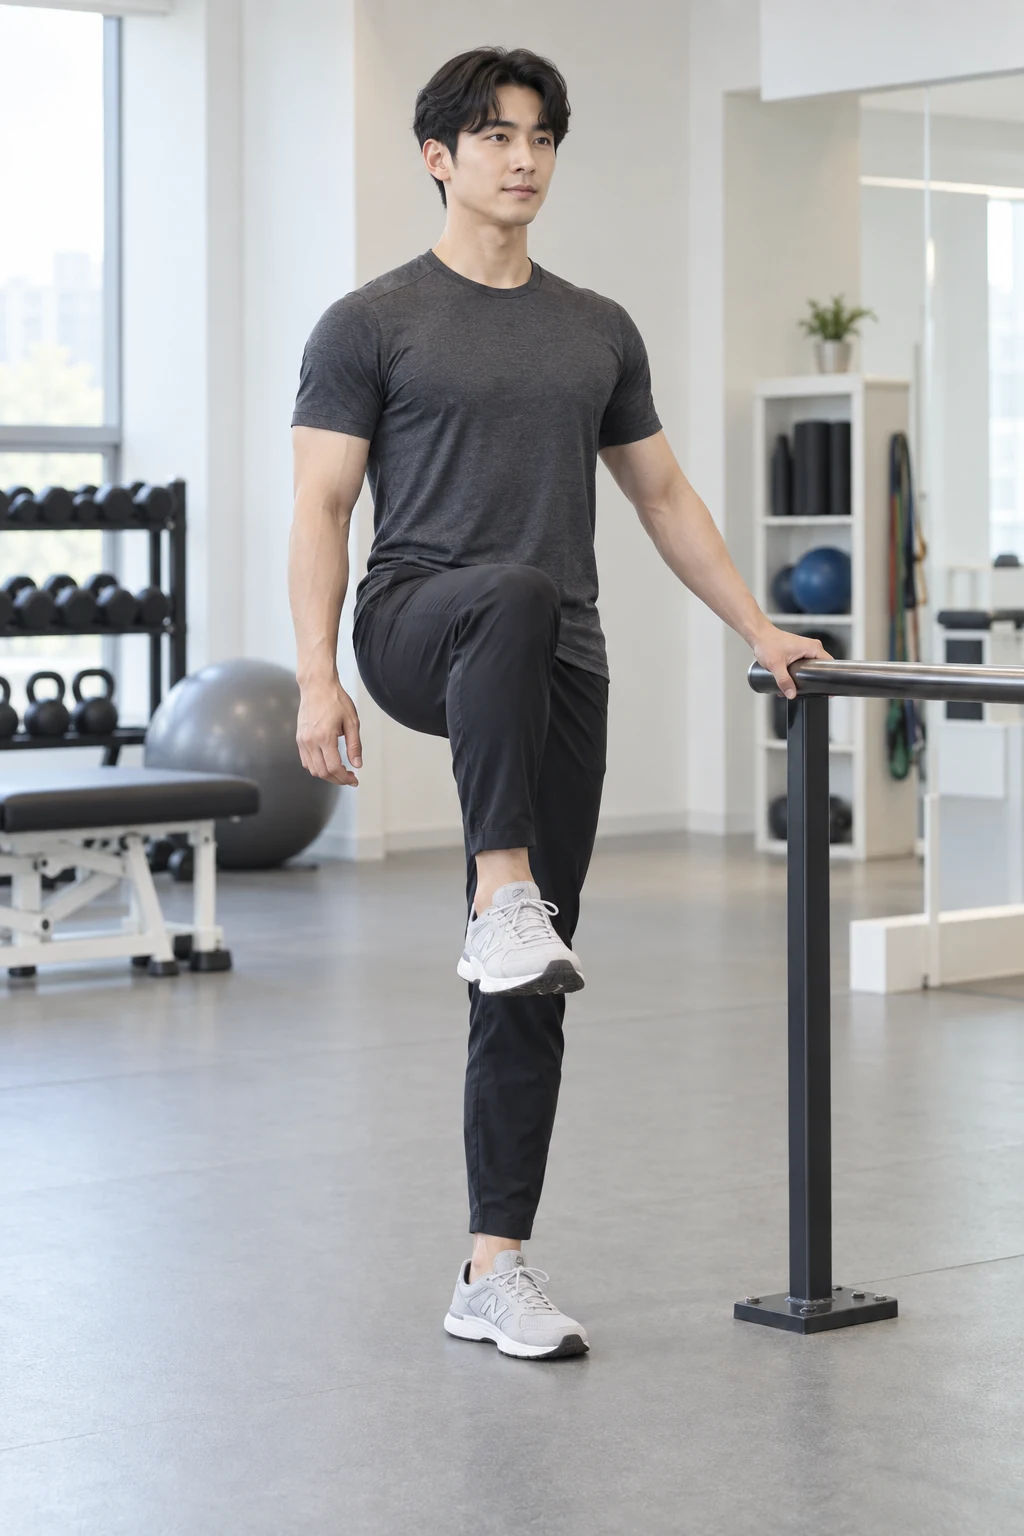
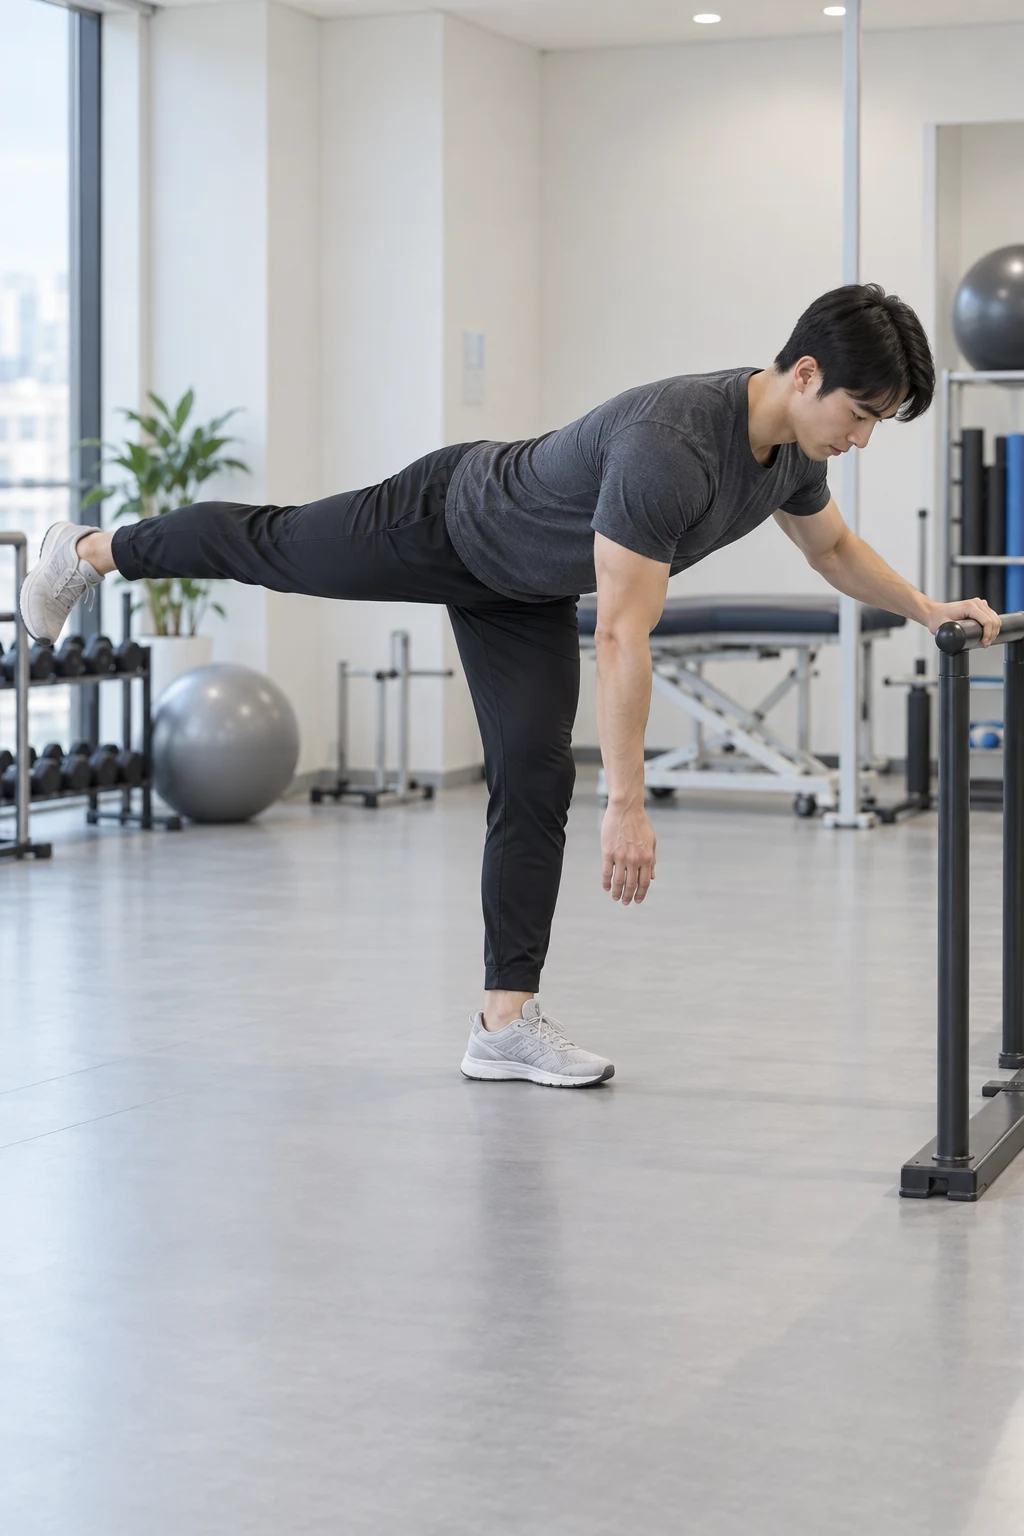
Refine PT movement 3D coaching v81

diff --git a/js/exercise-media.js b/js/exercise-media.js
@@ -142,7 +142,7 @@ window.ExerciseMedia = {
     "name": "백 익스텐션 (맨몸 · 허리 세우기)",
     "kind": "backextension",
     "captions": [
-      "골반·발로 기구 고정",
+      "힙힌지로 더 깊게 숙이기",
       "엉덩이로 몸 일자"
     ],
     "notes": [
@@ -556,16 +556,16 @@ window.ExerciseMedia = {
     "name": "와이드 사이드 런지 스트레칭 (내전근)",
     "kind": "sidelunge",
     "captions": [
-      "발 넓게 · 팔 앞으로",
-      "엉덩이 뒤로 · 반대 다리 길게"
+      "반대 다리 먼저 길게 펴기",
+      "지지 다리 굽혀 · 엉덩이 뒤로"
     ],
     "notes": [
-      "한쪽 발에 체중을 두고 무릎은 발끝 방향을 따라간다",
-      "안쪽 허벅지가 당기는 범위까지만 갔다가 완전히 돌아온다"
+      "반대쪽 다리를 먼저 길게 펴고 발바닥을 바닥에 붙여 고정한다",
+      "그다음 지지 다리에 앉듯 엉덩이를 뒤로 보내고, 안쪽 허벅지가 당기는 범위까지만 갔다가 돌아온다"
     ],
     "focus": {
       "muscle": "내전근(안쪽 허벅지) + 둔근",
-      "move": "엉덩이를 뒤로 보내 한쪽으로 앉고, 반대 다리를 길게 펴며 돌아온다",
+      "move": "반대쪽 다리를 먼저 길게 편 뒤, 지지 다리에 앉듯 엉덩이를 뒤로 보내며 돌아온다",
       "feel": "편 다리의 안쪽 허벅지가 길게 늘어나는 느낌"
     },
     "target": "adductors",
@@ -579,17 +579,17 @@ window.ExerciseMedia = {
     "name": "고관절 오픈·클로즈 스트레칭",
     "kind": "hipopenclose",
     "captions": [
-      "지지물 잡고 골반 세우기",
-      "고관절만 천천히 열고 닫기"
+      "지지 다리 누르고 힙힌지",
+      "반대 다리 길게 · 골반 열기"
     ],
     "notes": [
-      "서 있는 발은 바닥에 단단히 붙이고, 몸통과 골반은 흔들지 않는다",
-      "범위를 억지로 키우지 말고 부드럽게 열었다 닫는다"
+      "지지 발과 안쪽 허벅지로 바닥을 누른 채, 반대 다리를 뒤로 길게 뻗는다",
+      "균형이 잡히면 골반·가슴을 천천히 열었다가 정면으로 닫는다"
     ],
     "focus": {
-      "muscle": "고관절 주변 + 중둔근",
-      "move": "지지물을 잡고 골반을 고정한 채 무릎을 천천히 열고 닫는다",
-      "feel": "서 있는 다리는 단단히 버티고, 움직이는 쪽 고관절이 부드럽게 풀리는 느낌"
+      "muscle": "고관절 주변 + 중둔근 + 지지 다리 내전근",
+      "move": "지지물을 잡고 한 발 힙힌지로 반대 다리를 뒤로 뻗은 뒤, 골반·가슴을 천천히 열고 닫는다",
+      "feel": "지지 발은 바닥을 누르고, 뒤로 뻗은 다리와 골반이 함께 길어지며 고관절이 부드럽게 열리는 느낌"
     },
     "target": "glutes",
     "images": [

diff --git a/media/3d/poses.js b/media/3d/poses.js
@@ -75,15 +75,21 @@ function pose(kind,t,id){
  }else if(kind==='sidelunge'){
   // Wide lateral lunge: one leg receives the hip, the other stays long.
   p=base([-.17*q,.90-.25*q,-.09*q],.12+.18*q);
-  legs(p,[[-.36,.065,0],[.36,.065,0]],[[-.70,0,.40],[.20,.85,.55]]);
+  // Lock the non-support leg long before loading the bent leg.
+  const outsideHip=p.hips[1],longLeg=.854,drop=outsideHip[1]-.065;
+  const reach=Math.sqrt(Math.max(.02,longLeg*longLeg-drop*drop-outsideHip[2]*outsideHip[2]));
+  const outside=[outsideHip[0]+reach,.065,0];
+  legs(p,[[-.36,.065,0],outside],[[-.70,0,.40],[.20,.85,.55]]);
   arms(p,S.map(s=>add(p.chest,[s*.18,-.12,.42])),S.map(s=>[s,-.35,.45]));
   p.target=[-.12,.52,.05];p.distance=4.0;
  }else if(kind==='hipopenclose'){
-  // One planted leg, one bent leg opening from the hip while holding support.
-  p=base([0,.90,0],.04);
-  legs(p,[[-.13,.065,0],[.13+.31*q,.50,.28*q]],[[0,.10,1],[1,.20,.30]]);
-  arms(p,[[-.55,1.20,.24],[.30,.80,.20]],[[-1,.15,.30],[1,-.30,.25]]);
-  p.equipment.push({type:'supportbar'});p.target=[.18,.86,.02];p.distance=4.0;
+  // Supported single-leg hinge: the free leg extends back, then pelvis and chest open together.
+  const lean=.14+.66*q,turn=.55*q;
+  p=base([-.08,.90-.025*q,-.05*q],lean,turn);
+  const support=[-.105,.065,0],trail=add(p.hips[1],mul(p.up,-.855));
+  legs(p,[support,trail],[[0,.15,1],[0,-.15,1]]);
+  arms(p,[[-.58,1.12,.28],add(p.shoulders[1],[.04,-.50,.14])],[[-1,.10,.25],[1,-.70,.20]]);
+  p.equipment.push({type:'supportbar'});p.target=[-.02,.76,.02];p.distance=4.15;
  }else if(kind==='bosu'){
   const turn=t<.26?smooth(t/.26):t<.72?1:1-smooth((t-.72)/.28);
   const sit=t<.26?0:t<.48?smooth((t-.26)/.22):t<.64?1:1-smooth((t-.64)/.20);
@@ -137,7 +143,7 @@ function pose(kind,t,id){
   }
  }else if(kind==='backextension'){
   // Bodyweight hinge: return from a supported fold to a neutral long spine.
-  p=base([0,.89,0],.88-.48*q);
+  p=base([0,.89,0],1.18-.78*q);
   legs(p,S.map(s=>[s*.14,.16,-.46]));
   arms(p,p.shoulders.map((a,i)=>add(a,[S[i]*.02,-.50,-.04])),S.map(s=>[s,-.1,-1]));
   p.equipment.push({type:'backextension'});p.target=[0,.9,.05];

diff --git a/sw.js b/sw.js
@@ -1,24 +1,24 @@
 /* sw.js — 오프라인 캐시 (앱 셸 + 데이터)
    콘텐츠 수정 시 CACHE 버전을 올리면 갱신됩니다. */
-const CACHE = 'ptgolf-v77';
+const CACHE = 'ptgolf-v81';
 const ASSETS = [
   './',
   './index.html',
   './css/style.css',
   './js/store.js',
   './js/app.js',
-  './css/golf.css?v=77',
-  './js/golf-data.js?v=77',
-  './js/golf.js?v=77',
-  './js/exercise-media.js?v=77',
-  './media/golf3d/viewer.html?v=77',
-  './media/golf3d/lesson.html?v=77',
-  './media/golf3d/consistency.html?v=77',
-  './media/golf3d/training.html?v=77',
-  './media/golf3d/original.html?v=77',
-  './media/3d/viewer.html?v=77',
-  './media/3d/poses.js?v=77',
-  './media/3d/viewer.js?v=77',
+  './css/golf.css?v=81',
+  './js/golf-data.js?v=81',
+  './js/golf.js?v=81',
+  './js/exercise-media.js?v=81',
+  './media/golf3d/viewer.html?v=81',
+  './media/golf3d/lesson.html?v=81',
+  './media/golf3d/consistency.html?v=81',
+  './media/golf3d/training.html?v=81',
+  './media/golf3d/original.html?v=81',
+  './media/3d/viewer.html?v=81',
+  './media/3d/poses.js?v=81',
+  './media/3d/viewer.js?v=81',
   './data/seed.json',
   './manifest.webmanifest',
   './icon.svg',
@@ -65,9 +65,9 @@ const ASSETS = [
   './docs/images/42_sldl.svg',
   './docs/images/43_chestpress.svg',
   './docs/images/44_pecdeck.svg',
-  './samples/pushdown-3d/combined-start.png?v=77',
-  './samples/pushdown-3d/combined-end.png?v=77',
-  './samples/pushdown-3d/viewer.html?v=77',
+  './samples/pushdown-3d/combined-start.png?v=81',
+  './samples/pushdown-3d/combined-end.png?v=81',
+  './samples/pushdown-3d/viewer.html?v=81',
   './samples/pushdown-3d/three.min.js',
   './samples/pushdown-3d/pushdown.js'
 ];

diff --git a/index.html b/index.html
@@ -10,8 +10,8 @@
 <link rel="manifest" href="manifest.webmanifest">
 <link rel="apple-touch-icon" href="icon.svg">
 <link rel="icon" href="icon.svg" type="image/svg+xml">
-<link rel="stylesheet" href="css/style.css?v=77">
-<link rel="stylesheet" href="css/golf.css?v=77">
+<link rel="stylesheet" href="css/style.css?v=81">
+<link rel="stylesheet" href="css/golf.css?v=81">
 <title>PT노트</title>
 <!-- 저장된 테마를 CSS 로드 직후 즉시 적용 — 다크↔라이트 깜빡임 방지 -->
 <script>(function(){var t=localStorage.getItem('ptgolf_theme');if(t==='light')document.documentElement.setAttribute('data-theme','light');})()</script>
@@ -114,10 +114,10 @@
 
   <div id="toast" class="toast hidden"></div>
 
-  <script src="js/store.js?v=77"></script>
-  <script src="js/exercise-media.js?v=77"></script>
-  <script src="js/golf-data.js?v=77"></script>
-  <script src="js/golf.js?v=77"></script>
-  <script src="js/app.js?v=77"></script>
+  <script src="js/store.js?v=81"></script>
+  <script src="js/exercise-media.js?v=81"></script>
+  <script src="js/golf-data.js?v=81"></script>
+  <script src="js/golf.js?v=81"></script>
+  <script src="js/app.js?v=81"></script>
 </body>
 </html>

diff --git a/media/golf3d/viewer.html b/media/golf3d/viewer.html
@@ -1,14 +1,14 @@
 <!doctype html>
 <html lang="ko"><head><meta charset="utf-8"><meta name="viewport" content="width=device-width,initial-scale=1"><title>골프 자료로 이동</title></head>
-<body><p>골프 자료로 이동합니다.</p><a id="destination" href="../../index.html?v=77#golf/videos">골프 자료 열기</a>
-<script src="../../js/golf-data.js?v=77"></script>
+<body><p>골프 자료로 이동합니다.</p><a id="destination" href="../../index.html?v=81#golf/videos">골프 자료 열기</a>
+<script src="../../js/golf-data.js?v=81"></script>
 <script>
 const params=new URLSearchParams(location.search);
 const id=params.get('source'),exercise=params.get('exercise');
 const validVideo=window.GolfContent.videos.some(v=>v.id===id);
 const validNote=['golf_driver','golf_iron7','golf_iron5','golf_ironp'].includes(exercise);
 const hash=validVideo?'#golf/videos/'+id:validNote?'#exercise/'+exercise:'#golf/videos';
-const url='../../index.html?v=77'+hash;
+const url='../../index.html?v=81'+hash;
 document.getElementById('destination').href=url;
 location.replace(url);
 </script></body></html>

diff --git a/media/3d/viewer.html b/media/3d/viewer.html
@@ -20,7 +20,7 @@ button:focus-visible,select:focus-visible,input:focus-visible,canvas:focus-visib
 <p id="muscle" class="fine"></p><div class="phase"><h3 id="phaseTitle">준비 · 기구 가까이 서기</h3><p id="phaseText">팔꿈치를 몸 옆에 고정하세요.</p></div>
 <p id="visualNote" class="fine" hidden></p>
 <p class="fine">3D는 동작 확인용으로 단순화한 인체입니다. 방향키로 회전, + / −로 확대·축소할 수도 있습니다.</p>
-<script src="../../samples/pushdown-3d/three.min.js"></script><script src="../../js/exercise-media.js?v=77"></script><script src="poses.js?v=77"></script><script src="viewer.js?v=77"></script>
+<script src="../../samples/pushdown-3d/three.min.js"></script><script src="../../js/exercise-media.js?v=81"></script><script src="poses.js?v=81"></script><script src="viewer.js?v=81"></script>
 <script>
 function reportHeight(){if(parent!==window)parent.postMessage({type:'ptgolf-viewer-height',height:document.body.getBoundingClientRect().height+4},location.origin);}
 new ResizeObserver(reportHeight).observe(document.body);

diff --git a/media/golf3d/training.html b/media/golf3d/training.html
@@ -1,10 +1,10 @@
 <!doctype html>
 <html lang="ko"><head><meta charset="utf-8"><meta name="viewport" content="width=device-width,initial-scale=1"><title>골프 자료로 이동</title></head>
-<body><p>골프 자료로 이동합니다.</p><a id="destination" href="../../index.html?v=77#golf/videos">골프 자료 열기</a>
+<body><p>골프 자료로 이동합니다.</p><a id="destination" href="../../index.html?v=81#golf/videos">골프 자료 열기</a>
 <script>
 const params=new URLSearchParams(location.search);
 const hash='#golf/videos/'+(params.get('lesson')==='shift'?'CA-TZ7WQlHY':'UA-HYcmiKTA');
-const url='../../index.html?v=77'+hash;
+const url='../../index.html?v=81'+hash;
 document.getElementById('destination').href=url;
 location.replace(url);
 </script></body></html>

diff --git a/media/golf3d/consistency.html b/media/golf3d/consistency.html
@@ -1,10 +1,10 @@
 <!doctype html>
 <html lang="ko"><head><meta charset="utf-8"><meta name="viewport" content="width=device-width,initial-scale=1"><title>골프 자료로 이동</title></head>
-<body><p>골프 자료로 이동합니다.</p><a id="destination" href="../../index.html?v=77#golf/videos">골프 자료 열기</a>
+<body><p>골프 자료로 이동합니다.</p><a id="destination" href="../../index.html?v=81#golf/videos">골프 자료 열기</a>
 <script>
 const params=new URLSearchParams(location.search);
 const hash='#golf/videos/IsSS-GnQQyY';
-const url='../../index.html?v=77'+hash;
+const url='../../index.html?v=81'+hash;
 document.getElementById('destination').href=url;
 location.replace(url);
 </script></body></html>

diff --git a/media/golf3d/lesson.html b/media/golf3d/lesson.html
@@ -1,10 +1,10 @@
 <!doctype html>
 <html lang="ko"><head><meta charset="utf-8"><meta name="viewport" content="width=device-width,initial-scale=1"><title>골프 자료로 이동</title></head>
-<body><p>골프 자료로 이동합니다.</p><a id="destination" href="../../index.html?v=77#golf/videos">골프 자료 열기</a>
+<body><p>골프 자료로 이동합니다.</p><a id="destination" href="../../index.html?v=81#golf/videos">골프 자료 열기</a>
 <script>
 const params=new URLSearchParams(location.search);
 const hash='#golf/videos/du58mmLNMnQ';
-const url='../../index.html?v=77'+hash;
+const url='../../index.html?v=81'+hash;
 document.getElementById('destination').href=url;
 location.replace(url);
 </script></body></html>

diff --git a/media/golf3d/original.html b/media/golf3d/original.html
@@ -1,10 +1,10 @@
 <!doctype html>
 <html lang="ko"><head><meta charset="utf-8"><meta name="viewport" content="width=device-width,initial-scale=1"><title>골프 자료로 이동</title></head>
-<body><p>골프 자료로 이동합니다.</p><a id="destination" href="../../index.html?v=77#golf/videos">골프 자료 열기</a>
+<body><p>골프 자료로 이동합니다.</p><a id="destination" href="../../index.html?v=81#golf/videos">골프 자료 열기</a>
 <script>
 const params=new URLSearchParams(location.search);
 const hash='#golf/videos/bfMsJtV61hM';
-const url='../../index.html?v=77'+hash;
+const url='../../index.html?v=81'+hash;
 document.getElementById('destination').href=url;
 location.replace(url);
 </script></body></html>

diff --git a/media/3d/viewer.js b/media/3d/viewer.js
@@ -3,7 +3,7 @@
 const $=id=>document.getElementById(id),vp=$('viewport');
 try{
  const id=new URLSearchParams(location.search).get('exercise'),entry=window.ExerciseMedia[id];
- if(['golf_driver','golf_iron7','golf_iron5','golf_ironp'].includes(id)){location.replace('../../index.html?v=77#exercise/'+id);return;}
+ if(['golf_driver','golf_iron7','golf_iron5','golf_ironp'].includes(id)){location.replace('../../index.html?v=81#exercise/'+id);return;}
  if(!entry||!entry.kind||entry.kind==='pushdown')throw Error('Unknown exercise');
  document.title=entry.name+' 3D';
  const P=ExercisePoses,{add,sub,mul,unit,cross,mix}=P;

diff --git a/js/app.js b/js/app.js
@@ -32,7 +32,7 @@ const Theme = (() => {
   const toastEl = document.getElementById('toast');
 
   // 자산 버전 — 그림(SVG) URL에 붙여 캐시 강제 갱신 (릴리스 시 index.html·sw.js와 함께 올릴 것)
-  const ASSET_VER = '77';
+  const ASSET_VER = '81';
 
   // 화면 상태
   let view = { name: 'home', part: null, cat: null, id: null };
